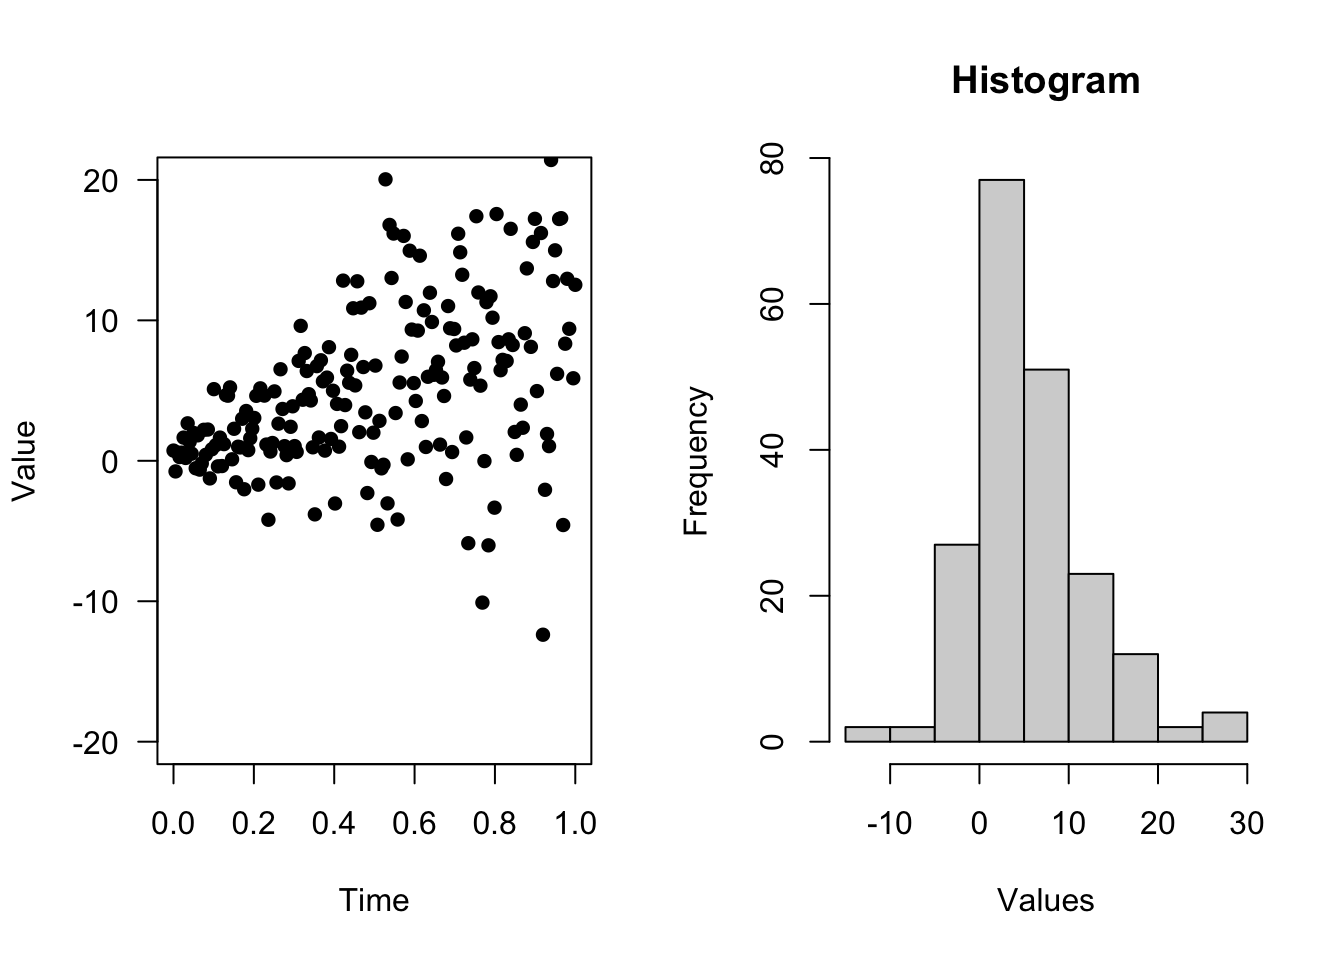
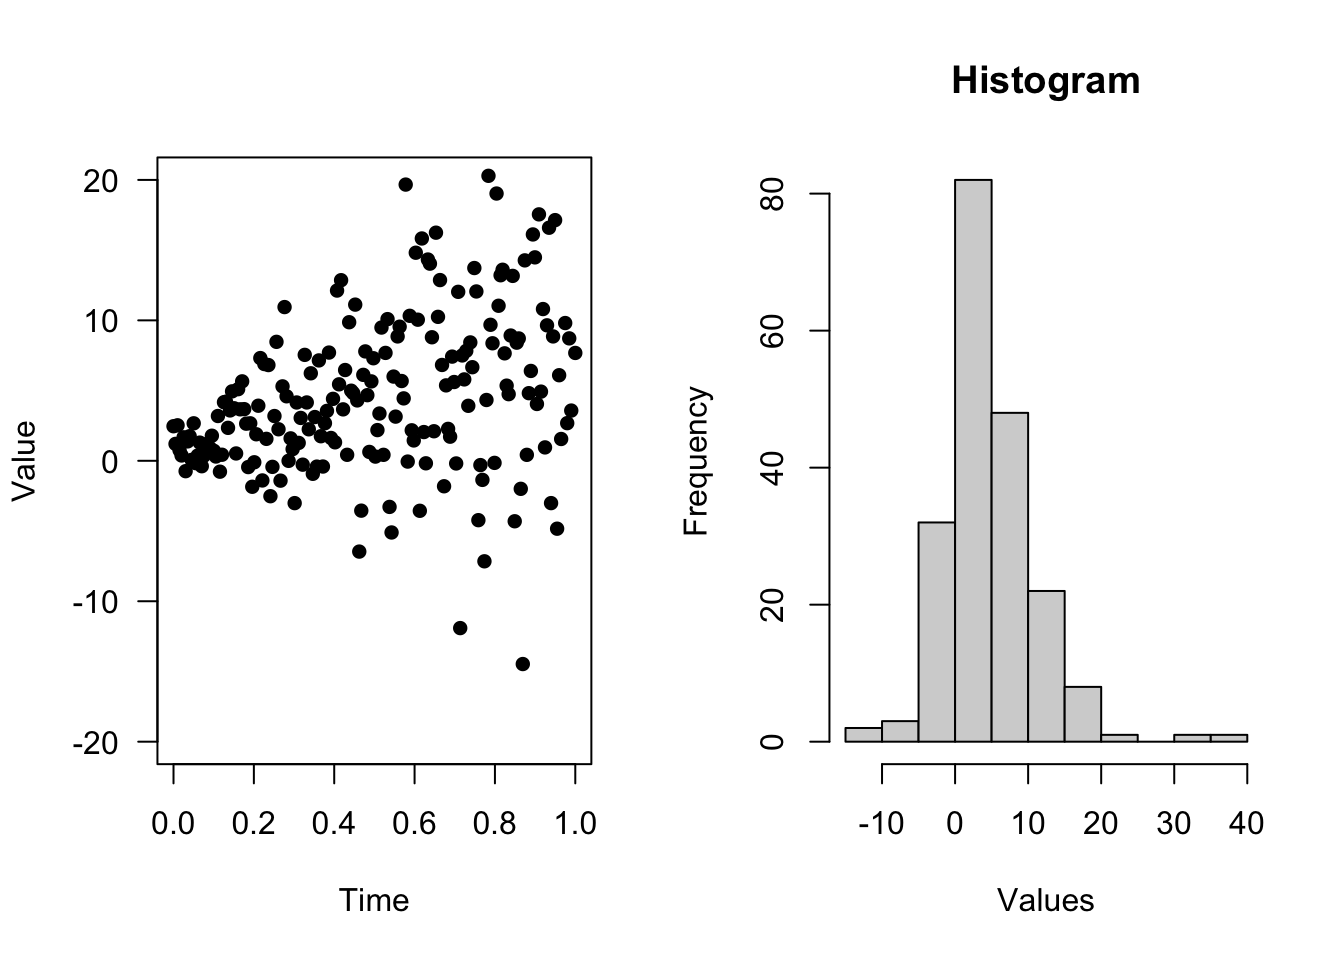
Rebuild site

diff --git a/docs/news/index.html b/docs/news/index.html
@@ -150,14 +150,6 @@
 <code>use_shiny_dipsaus</code> can wrap around <code>HTML</code> tags now</li>
 </ul>
 </div>
-<div id="minor-changes" class="section level2">
-<h2 class="hasAnchor">
-<a href="#minor-changes" class="anchor"></a>Minor Changes</h2>
-<ul>
-<li>
-<code>JavaScript</code> map is now included</li>
-</ul>
-</div>
 <div id="bug-fixes" class="section level2">
 <h2 class="hasAnchor">
 <a href="#bug-fixes" class="anchor"></a>Bug Fixes</h2>
@@ -210,9 +202,9 @@
 <code>print_directory_tree</code> generates directory tree as text</li>
 </ul>
 </div>
-<div id="minor-changes-1" class="section level2">
+<div id="minor-changes" class="section level2">
 <h2 class="hasAnchor">
-<a href="#minor-changes-1" class="anchor"></a>Minor Changes</h2>
+<a href="#minor-changes" class="anchor"></a>Minor Changes</h2>
 <ul>
 <li>
 <code>dev_create</code> can now set attributes and those attributes can be obtained by function <code>get_dev_attr</code> or method <code>dev_attributes</code>
@@ -261,9 +253,9 @@
 <code>new_function2</code> creates function that supports ‘quasi-quosure’ syntax</li>
 </ul>
 </div>
-<div id="minor-changes-2" class="section level2">
+<div id="minor-changes-1" class="section level2">
 <h2 class="hasAnchor">
-<a href="#minor-changes-2" class="anchor"></a>Minor Changes</h2>
+<a href="#minor-changes-1" class="anchor"></a>Minor Changes</h2>
 <ul>
 <li>Allow maximum height set for <code>compoundInput2</code>
 </li>
@@ -293,9 +285,9 @@
 <li>Added <code>get_dots</code> that can get variable from <code>...</code> without evaluating other variables</li>
 </ul>
 </div>
-<div id="minor-changes-3" class="section level2">
+<div id="minor-changes-2" class="section level2">
 <h2 class="hasAnchor">
-<a href="#minor-changes-3" class="anchor"></a>Minor Changes</h2>
+<a href="#minor-changes-2" class="anchor"></a>Minor Changes</h2>
 <ul>
 <li>
 <code>lapply_async2</code> now supporting more load-balance settings</li>
@@ -384,9 +376,9 @@
 </ul>
 </div>
 </div>
-<div id="minor-changes-4" class="section level2">
+<div id="minor-changes-3" class="section level2">
 <h2 class="hasAnchor">
-<a href="#minor-changes-4" class="anchor"></a>Minor Changes</h2>
+<a href="#minor-changes-3" class="anchor"></a>Minor Changes</h2>
 <ul>
 <li>Renamed <code>txtq_queue</code> to <code>text_queue</code>
 </li>
@@ -439,9 +431,9 @@
 </ul>
 </div>
 </div>
-<div id="minor-changes-5" class="section level2">
+<div id="minor-changes-4" class="section level2">
 <h2 class="hasAnchor">
-<a href="#minor-changes-5" class="anchor"></a>Minor Changes</h2>
+<a href="#minor-changes-4" class="anchor"></a>Minor Changes</h2>
 <ul>
 <li>
 <code>cat2</code> act as base function <code>cat</code> but provides different levels with different colored outputs;</li>
@@ -477,9 +469,9 @@
 <li>Added utility function <code>match_calls</code> to match and modify calls</li>
 </ul>
 </div>
-<div id="minor-changes-6" class="section level2">
+<div id="minor-changes-5" class="section level2">
 <h2 class="hasAnchor">
-<a href="#minor-changes-6" class="anchor"></a>Minor Changes</h2>
+<a href="#minor-changes-5" class="anchor"></a>Minor Changes</h2>
 <ul>
 <li>Added <code>label_color</code> to <code>compoundInput2</code> to enable colored group labels</li>
 </ul>

diff --git a/docs/reference/new_function2.html b/docs/reference/new_function2.html
@@ -210,7 +210,7 @@ function like <code>function(a){...}</code>. See examples for more details.</p>
 #&gt; {
 #&gt;     print(a + 1:10)
 #&gt; }
-#&gt; &lt;environment: 0x7fedb5a36de8&gt;</div><div class='input'>
+#&gt; &lt;environment: 0x7fa1fd6706c8&gt;</div><div class='input'>
 <span class='fu'>f2</span>(<span class='fl'>0</span>)</div><div class='output co'>#&gt;  [1]  1  2  3  4  5  6  7  8  9 10</div><div class='input'>
 <span class='no'>x</span> <span class='kw'>&lt;-</span> <span class='fl'>20</span>:<span class='fl'>23</span>
 <span class='fu'>f2</span>(<span class='fl'>0</span>)  <span class='co'># result doesn't change as f2 doesn't depend on x anymore</span></div><div class='output co'>#&gt;  [1]  1  2  3  4  5  6  7  8  9 10</div><div class='input'>
@@ -222,20 +222,20 @@ function like <code>function(a){...}</code>. See examples for more details.</p>
 <span class='fu'>new_function2</span>(<span class='fu'><a href='https://rdrr.io/r/base/list.html'>list</a></span>(<span class='kw'>a</span> <span class='kw'>=</span> <span class='no'>default</span>))   <span class='co'># function (a = 123){}</span></div><div class='output co'>#&gt; function (a = 123) 
 #&gt; {
 #&gt; }
-#&gt; &lt;environment: 0x7fedaa6e5f10&gt;</div><div class='input'>
+#&gt; &lt;environment: 0x7fa20e08dd08&gt;</div><div class='input'>
 <span class='co'># default with values unevaluated</span>
 <span class='fu'>new_function2</span>(<span class='fu'><a href='https://rdrr.io/r/base/list.html'>list</a></span>(<span class='kw'>a</span> <span class='kw'>=</span> <span class='fu'><a href='https://rdrr.io/r/base/substitute.html'>quote</a></span>(<span class='no'>default</span>)))   <span class='co'># function (a = default){}</span></div><div class='output co'>#&gt; function (a = default) 
 #&gt; {
 #&gt; }
-#&gt; &lt;environment: 0x7fedaa6971a0&gt;</div><div class='input'><span class='fu'>new_function2</span>(<span class='fu'><a href='https://rdrr.io/r/base/list.html'>alist</a></span>(<span class='kw'>a</span> <span class='kw'>=</span> <span class='no'>default</span>))</div><div class='output co'>#&gt; function (a = default) 
+#&gt; &lt;environment: 0x7fa20dc1d310&gt;</div><div class='input'><span class='fu'>new_function2</span>(<span class='fu'><a href='https://rdrr.io/r/base/list.html'>alist</a></span>(<span class='kw'>a</span> <span class='kw'>=</span> <span class='no'>default</span>))</div><div class='output co'>#&gt; function (a = default) 
 #&gt; {
 #&gt; }
-#&gt; &lt;environment: 0x7fedaca9a3c0&gt;</div><div class='input'>
+#&gt; &lt;environment: 0x7fa20da2df50&gt;</div><div class='input'>
 <span class='co'># missing default</span>
 <span class='fu'>new_function2</span>(<span class='fu'><a href='https://rdrr.io/r/base/list.html'>alist</a></span>(<span class='kw'>a</span> <span class='kw'>=</span> ))    <span class='co'># function (a){}</span></div><div class='output co'>#&gt; function (a) 
 #&gt; {
 #&gt; }
-#&gt; &lt;environment: 0x7fedacb8d210&gt;</div><div class='input'>
+#&gt; &lt;environment: 0x7fa20d8f29d8&gt;</div><div class='input'>
 
 </div></pre>
   </div>

diff --git a/docs/reference/shared_finalizer.html b/docs/reference/shared_finalizer.html
@@ -306,15 +306,15 @@ instances, <code>fin</code> accepts no argument.</p>
 <span class='no'>e2</span>$<span class='no'>valid</span> <span class='kw'>&lt;-</span> <span class='kw'>function</span>(){ <span class='no'>file_exists</span> }
 
 <span class='fu'><a href='https://rdrr.io/r/base/reg.finalizer.html'>reg.finalizer</a></span>(<span class='no'>e1</span>, <span class='no'>clear_files</span>)</div><div class='output co'>#&gt; NULL</div><div class='input'><span class='fu'><a href='https://rdrr.io/r/base/reg.finalizer.html'>reg.finalizer</a></span>(<span class='no'>e2</span>, <span class='no'>clear_files</span>)</div><div class='output co'>#&gt; NULL</div><div class='input'><span class='fu'><a href='https://rdrr.io/r/base/gc.html'>gc</a></span>()</div><div class='output co'>#&gt;           used (Mb) gc trigger (Mb) limit (Mb) max used  (Mb)
-#&gt; Ncells 1036195 55.4    1772854 94.7         NA  1772854  94.7
+#&gt; Ncells 1036195 55.4    1772950 94.7         NA  1772950  94.7
 #&gt; Vcells 1965770 15.0   11864896 90.6      65536 23173532 176.9</div><div class='input'><span class='no'>file_exists</span></div><div class='output co'>#&gt; [1] TRUE</div><div class='input'>
 <span class='co'># removing e1 will invalidate e2</span>
 <span class='fu'><a href='https://rdrr.io/r/base/rm.html'>rm</a></span>(<span class='no'>e1</span>); <span class='fu'><a href='https://rdrr.io/r/base/gc.html'>gc</a></span>()</div><div class='output co'>#&gt; [1] "Clean some shared files"</div><div class='output co'>#&gt;           used (Mb) gc trigger (Mb) limit (Mb) max used  (Mb)
-#&gt; Ncells 1036201 55.4    1772854 94.7         NA  1772854  94.7
+#&gt; Ncells 1036201 55.4    1772950 94.7         NA  1772950  94.7
 #&gt; Vcells 1965814 15.0   11864896 90.6      65536 23173532 176.9</div><div class='input'><span class='no'>e2</span>$<span class='fu'>valid</span>()    <span class='co'># FALSE</span></div><div class='output co'>#&gt; [1] FALSE</div><div class='input'>
 <span class='co'># Clean-ups</span>
 <span class='fu'><a href='https://rdrr.io/r/base/rm.html'>rm</a></span>(<span class='no'>e2</span>); <span class='fu'><a href='https://rdrr.io/r/base/gc.html'>gc</a></span>()</div><div class='output co'>#&gt; [1] "Clean some shared files"</div><div class='output co'>#&gt;           used (Mb) gc trigger (Mb) limit (Mb) max used  (Mb)
-#&gt; Ncells 1036222 55.4    1772854 94.7         NA  1772854  94.7
+#&gt; Ncells 1036222 55.4    1772950 94.7         NA  1772950  94.7
 #&gt; Vcells 1965828 15.0   11864896 90.6      65536 23173532 176.9</div><div class='input'>
 </div></pre>
   </div>

diff --git a/docs/reference/collapse.html b/docs/reference/collapse.html
@@ -196,8 +196,8 @@ collapsing dimensions</p>
   }
 )</div><div class='output co'>#&gt; Unit: microseconds
 #&gt;     expr     min      lq    mean  median      uq     max neval
-#&gt;   result 408.058 408.058 408.058 408.058 408.058 408.058     1
-#&gt;  compare  87.853  87.853  87.853  87.853  87.853  87.853     1</div><div class='input'>
+#&gt;   result 349.716 349.716 349.716 349.716 349.716 349.716     1
+#&gt;  compare 101.067 101.067 101.067 101.067 101.067 101.067     1</div><div class='input'>
 <span class='co'># large data big difference</span>
 <span class='no'>x</span> <span class='kw'>=</span> <span class='fu'><a href='https://rdrr.io/r/base/array.html'>array</a></span>(<span class='fu'><a href='https://rdrr.io/r/stats/Normal.html'>rnorm</a></span>(<span class='fu'><a href='https://rdrr.io/r/base/prod.html'>prod</a></span>(<span class='fl'>300</span>,<span class='fl'>200</span>,<span class='fl'>105</span>)), <span class='fu'><a href='https://rdrr.io/r/base/c.html'>c</a></span>(<span class='fl'>300</span>,<span class='fl'>200</span>,<span class='fl'>105</span>,<span class='fl'>1</span>))
 <span class='kw pkg'>microbenchmark</span><span class='kw ns'>::</span><span class='fu'><a href='https://rdrr.io/pkg/microbenchmark/man/microbenchmark.html'>microbenchmark</a></span>(
@@ -207,8 +207,8 @@ collapsing dimensions</p>
     <span class='fu'><a href='https://rdrr.io/r/base/Extremes.html'>max</a></span>(<span class='fu'><a href='https://rdrr.io/r/base/MathFun.html'>abs</a></span>(<span class='fu'><a href='https://rdrr.io/r/base/range.html'>range</a></span>(<span class='fu'><a href='https://rdrr.io/r/base/do.call.html'>do.call</a></span>(<span class='st'>'-'</span>, <span class='no'>v</span>)))) <span class='kw'>&lt;</span> <span class='fl'>1e-10</span>
   })</div><div class='output co'>#&gt; Unit: milliseconds
 #&gt;     expr       min        lq      mean    median        uq       max neval
-#&gt;   result  44.21346  44.21346  44.21346  44.21346  44.21346  44.21346     1
-#&gt;  compare 116.64729 116.64729 116.64729 116.64729 116.64729 116.64729     1</div><div class='input'>
+#&gt;   result  34.16383  34.16383  34.16383  34.16383  34.16383  34.16383     1
+#&gt;  compare 112.77576 112.77576 112.77576 112.77576 112.77576 112.77576     1</div><div class='input'>
 </div></pre>
   </div>
   <div class="col-md-3 hidden-xs hidden-sm" id="pkgdown-sidebar">

diff --git a/docs/reference/mask_function2.html b/docs/reference/mask_function2.html
@@ -175,7 +175,7 @@ environment.</p>
 <span class='fu'>f1</span>()   <span class='co'># 124</span></div><div class='output co'>#&gt; [1] 124</div><div class='input'>
 <span class='no'>f2</span> <span class='kw'>&lt;-</span> <span class='fu'>mask_function2</span>(<span class='no'>f1</span>, <span class='kw'>a</span> <span class='kw'>=</span> <span class='fl'>1</span>)
 <span class='fu'>f2</span>()   <span class='co'># a is masked with value 1, return 2</span></div><div class='output co'>#&gt; [1] 2</div><div class='input'>
-<span class='fu'><a href='https://rdrr.io/r/base/environment.html'>environment</a></span>(<span class='no'>f1</span>)  <span class='co'># global env</span></div><div class='output co'>#&gt; &lt;environment: 0x7fedd08e4a38&gt;</div><div class='input'><span class='fu'><a href='https://rdrr.io/r/base/environment.html'>environment</a></span>(<span class='no'>f2</span>)  <span class='co'># masked env</span></div><div class='output co'>#&gt; &lt;environment: 0x7fedd0395be8&gt;</div><div class='input'>
+<span class='fu'><a href='https://rdrr.io/r/base/environment.html'>environment</a></span>(<span class='no'>f1</span>)  <span class='co'># global env</span></div><div class='output co'>#&gt; &lt;environment: 0x7fa1fe7557e0&gt;</div><div class='input'><span class='fu'><a href='https://rdrr.io/r/base/environment.html'>environment</a></span>(<span class='no'>f2</span>)  <span class='co'># masked env</span></div><div class='output co'>#&gt; &lt;environment: 0x7fa1de100020&gt;</div><div class='input'>
 <span class='no'>env</span> <span class='kw'>&lt;-</span> <span class='fu'><a href='https://rdrr.io/r/base/environment.html'>environment</a></span>(<span class='no'>f2</span>)
 <span class='fu'><a href='https://rdrr.io/r/base/identical.html'>identical</a></span>(<span class='fu'><a href='https://rdrr.io/r/base/environment.html'>parent.env</a></span>(<span class='no'>env</span>), <span class='fu'><a href='https://rdrr.io/r/base/environment.html'>environment</a></span>(<span class='no'>f1</span>))  <span class='co'># true</span></div><div class='output co'>#&gt; [1] TRUE</div><div class='input'><span class='no'>env</span>$<span class='no'>a</span>  <span class='co'># masked variables: a=1</span></div><div class='output co'>#&gt; [1] 1</div><div class='input'>
 </div></pre>

diff --git a/docs/reference/grapes-equals-greater-than-grapes.html b/docs/reference/grapes-equals-greater-than-grapes.html
@@ -169,7 +169,7 @@ the function body</p>
 #&gt; {
 #&gt;     print(a)
 #&gt; }
-#&gt; &lt;environment: 0x7fedb7a4dce8&gt;</div><div class='input'>
+#&gt; &lt;environment: 0x7fa1fdf2e680&gt;</div><div class='input'>
 <span class='co'># Informal arguments</span>
 <span class='fu'><a href='https://rdrr.io/r/base/list.html'>list</a></span>(<span class='kw'>a</span><span class='kw'>=</span>) <span class='kw'>%=&gt;%</span> {
   <span class='fu'><a href='https://rdrr.io/r/base/print.html'>print</a></span>(<span class='no'>a</span>)
@@ -177,7 +177,7 @@ the function body</p>
 #&gt; {
 #&gt;     print(a)
 #&gt; }
-#&gt; &lt;environment: 0x7fedb7a4dce8&gt;</div><div class='input'>
+#&gt; &lt;environment: 0x7fa1fdf2e680&gt;</div><div class='input'>
 <span class='co'># Multiple inputs</span>
 <span class='fu'><a href='https://rdrr.io/r/base/c.html'>c</a></span>(<span class='no'>a</span>, <span class='kw'>b</span> <span class='kw'>=</span> <span class='fl'>2</span>, <span class='no'>...</span>) <span class='kw'>%=&gt;%</span> {
   <span class='fu'><a href='https://rdrr.io/r/base/print.html'>print</a></span>(<span class='fu'><a href='https://rdrr.io/r/base/c.html'>c</a></span>(<span class='no'>a</span>, <span class='no'>b</span>, <span class='no'>...</span>))
@@ -185,7 +185,7 @@ the function body</p>
 #&gt; {
 #&gt;     print(c(a, b, ...))
 #&gt; }
-#&gt; &lt;environment: 0x7fedb7a4dce8&gt;</div><div class='input'>
+#&gt; &lt;environment: 0x7fa1fdf2e680&gt;</div><div class='input'>
 <span class='co'># ----- JavaScript style of forEach -----</span>
 <span class='co'># ### Equivalent JavaScript Code:</span>
 <span class='co'># LETTERS.forEach((el, ii) =&gt; {</span>

diff --git a/docs/reference/time_delta.html b/docs/reference/time_delta.html
@@ -169,7 +169,7 @@
 <span class='fu'><a href='https://rdrr.io/r/base/Sys.sleep.html'>Sys.sleep</a></span>(<span class='fl'>0.3</span>)
 <span class='no'>b</span> <span class='kw'>=</span> <span class='fu'><a href='https://rdrr.io/r/base/Sys.time.html'>Sys.time</a></span>()
 
-<span class='fu'>time_delta</span>(<span class='no'>a</span>, <span class='no'>b</span>) <span class='co'># In seconds, around 0.3</span></div><div class='output co'>#&gt; [1] 0.3059859</div><div class='input'><span class='fu'>time_delta</span>(<span class='no'>a</span>, <span class='no'>b</span>, <span class='st'>'mins'</span>) <span class='co'># in minutes, around 0.005</span></div><div class='output co'>#&gt; [1] 0.005099765</div><div class='input'>
+<span class='fu'>time_delta</span>(<span class='no'>a</span>, <span class='no'>b</span>) <span class='co'># In seconds, around 0.3</span></div><div class='output co'>#&gt; [1] 0.3062792</div><div class='input'><span class='fu'>time_delta</span>(<span class='no'>a</span>, <span class='no'>b</span>, <span class='st'>'mins'</span>) <span class='co'># in minutes, around 0.005</span></div><div class='output co'>#&gt; [1] 0.005104653</div><div class='input'>
 </div></pre>
   </div>
   <div class="col-md-3 hidden-xs hidden-sm" id="pkgdown-sidebar">

diff --git a/docs/articles/r_expr_addons.html b/docs/articles/r_expr_addons.html
@@ -255,11 +255,11 @@ li.map((el, ii) => {
   <span class="fu"><a href="../reference/no_op.html">no_op</a></span>(<span class="no">hist</span>, <span class="kw">xlab</span> <span class="kw">=</span> <span class="st">'Values'</span>, <span class="kw">main</span> <span class="kw">=</span> <span class="st">'Histogram'</span>) <span class="kw">-&gt;</span>
   <span class="no">result</span>
 <span class="co">#&gt;     Min.  1st Qu.   Median     Mean  3rd Qu.     Max. </span>
-<span class="co">#&gt; -12.3832   0.9787   4.6325   5.4386   8.6494  28.8485</span></pre></body></html></div>
+<span class="co">#&gt; -14.4711   0.7429   3.8282   4.8253   7.7986  37.9359</span></pre></body></html></div>
 <p><img src="r_expr_addons_files/figure-html/unnamed-chunk-15-1.png" width="672"></p>
 <div class="sourceCode" id="cb15"><html><body><pre class="r">
 <span class="fu"><a href="https://rdrr.io/r/utils/str.html">str</a></span>(<span class="no">result</span>)
-<span class="co">#&gt;  num [1:200] 0.728 -0.756 0.587 0.269 0.578 ...</span></pre></body></html></div>
+<span class="co">#&gt;  num [1:200] 2.461 1.204 2.528 0.754 0.379 ...</span></pre></body></html></div>
 </div>
 <div id="do_aggregate" class="section level4">
 <h4 class="hasAnchor">

diff --git a/docs/reference/forelse.html b/docs/reference/forelse.html
@@ -236,9 +236,9 @@ or the result of <code>ALT_FUN()</code>.</p>
 #&gt;  {     y &lt;- unlist(lapply(1:10, FUN))     if (length(y)) {         y &lt;- y[[1]]     }     else {         y &lt;- "wow"     } }
 #&gt;           {     y &lt;- NULL     for (x in 1:10) {         y &lt;- FUN(x)     }     if (is.null(y)) {         y &lt;- "wow"     } }
 #&gt;        min        lq      mean    median        uq       max neval
-#&gt;   21.02109  22.03486  22.37686  23.04862  23.05474  23.06086     3
-#&gt;  113.30289 114.71576 115.70137 116.12863 116.90062 117.67260     3
-#&gt;  110.23602 110.34321 112.17423 110.45040 113.14333 115.83626     3</div><div class='input'>
+#&gt;   21.73136  21.78864  21.97808  21.84591  22.10144  22.35696     3
+#&gt;  107.64963 109.04138 109.70714 110.43312 110.73589 111.03866     3
+#&gt;  110.67883 111.69551 113.24139 112.71219 114.52268 116.33317     3</div><div class='input'>
 
 </div></pre>
   </div>

diff --git a/cran-comments.md b/cran-comments.md
@@ -2,7 +2,7 @@
 
 Tested on:
 
-* travis (r-release and r-devel)
+* travis (r-release, r-oldrel, and r-devel)
 * rhub (windows r-devel, Ubuntu r-release gcc, Fedora r-devel clang)
 * win-builder (old, release, devel)
 * local macosx (R release)
